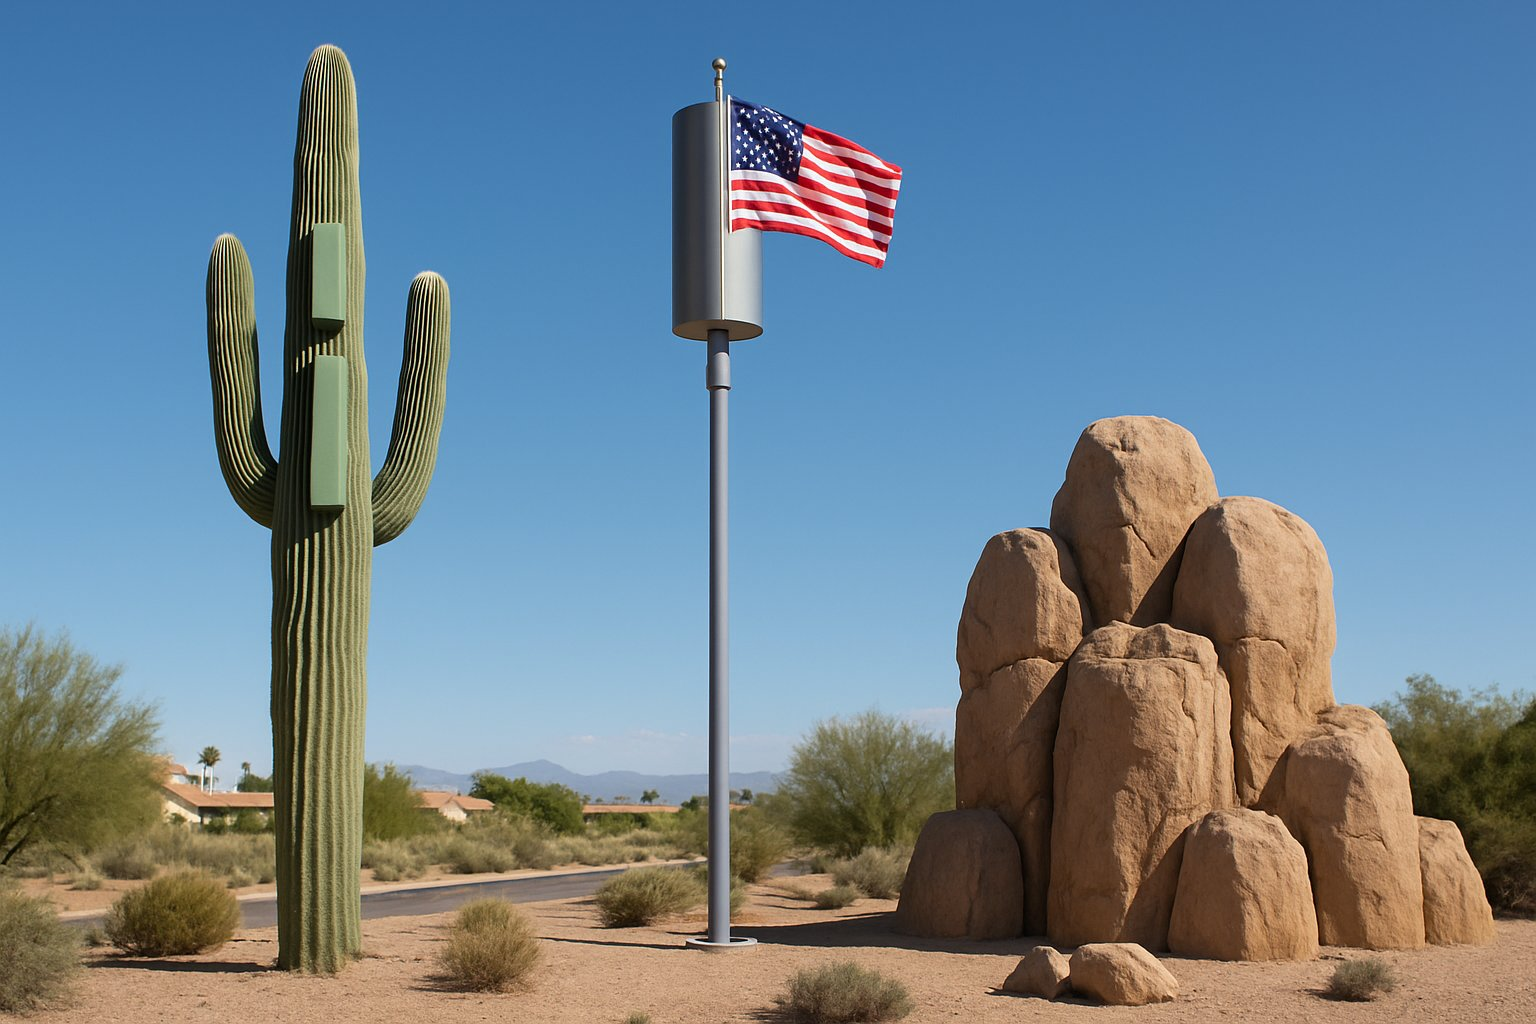
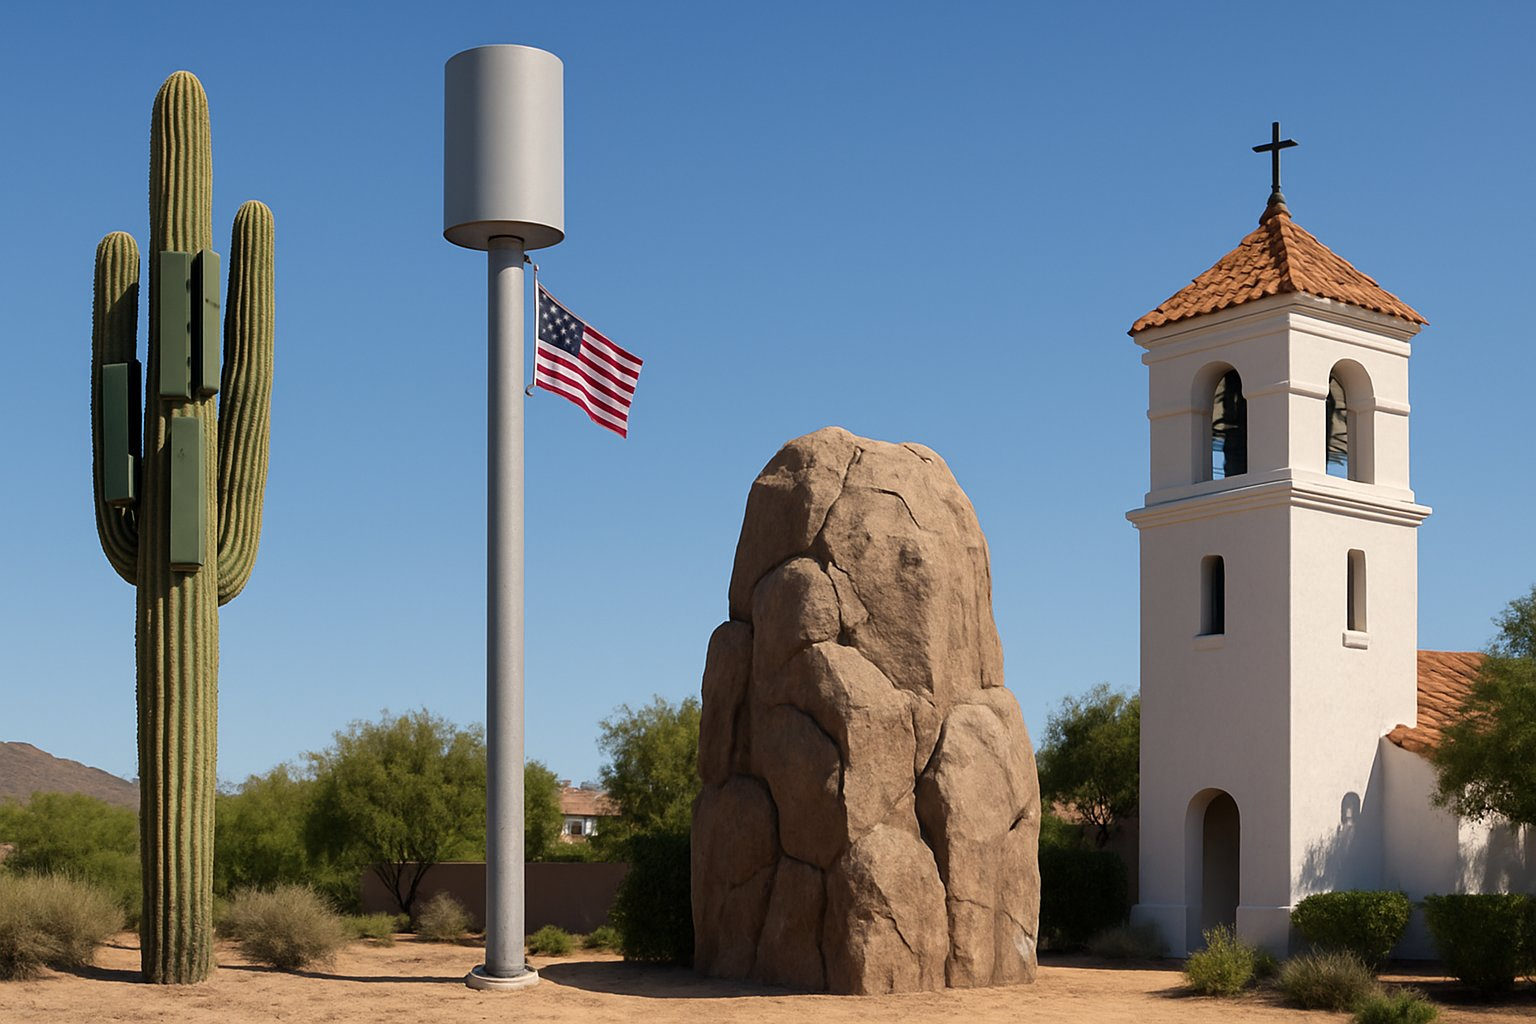
feat(osc): stealth montage now shows 4 installations — added church steeple
Per Craig — added a Spanish-mission-style church bell tower with louvered
openings as the 4th panel of the home-page stealth montage. New left-to-
right order: Cactus · Flagpole (with the wider top housing) · Faux Rock ·
Steeple. Same cohesive Southern California setting and lighting across
all four.

Caption strip updated to match. StealthCallout alt text also updated.

diff --git a/src/components/StealthCallout.tsx b/src/components/StealthCallout.tsx
@@ -65,7 +65,7 @@ export function StealthCallout() {
           >
             <Image
               src="/images/stealth-montage.jpg"
-              alt="Three stealth cellular installations: a saguaro cactus, a flagpole, and a faux rock outcrop"
+              alt="Four stealth cellular installations side by side: a saguaro cactus, a flagpole with a wider top housing, a faux rock outcrop, and a church bell tower with louvered openings"
               width={1536}
               height={1024}
               className="w-full h-auto object-cover"
@@ -73,7 +73,7 @@ export function StealthCallout() {
             />
             <div className="absolute bottom-0 left-0 right-0 p-4 bg-gradient-to-t from-slate-950/80 to-transparent">
               <p className="text-white text-xs font-heading font-semibold tracking-wider uppercase">
-                Cactus &middot; Flagpole &middot; Faux Rock
+                Cactus &middot; Flagpole &middot; Faux Rock &middot; Steeple
               </p>
             </div>
           </motion.div>